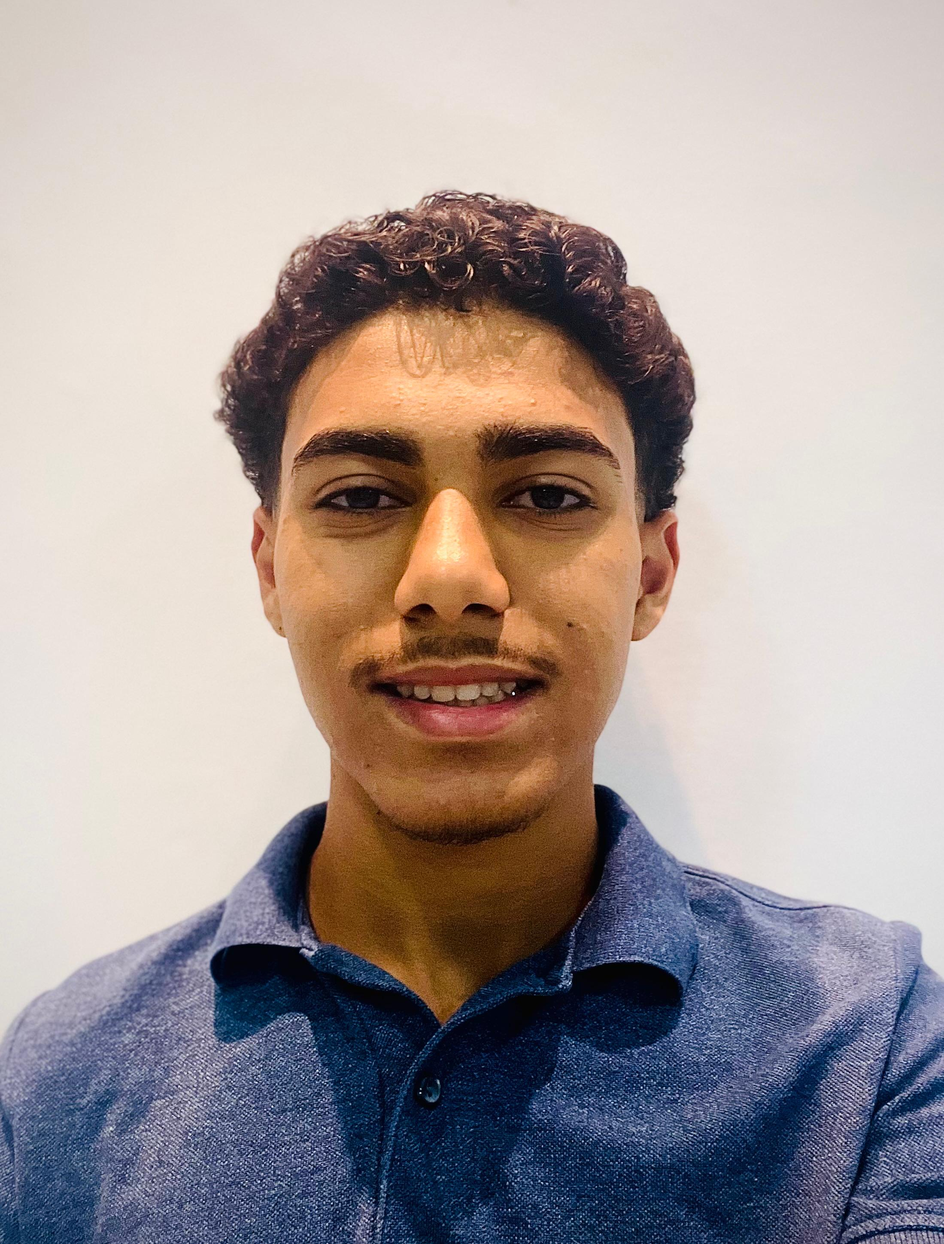
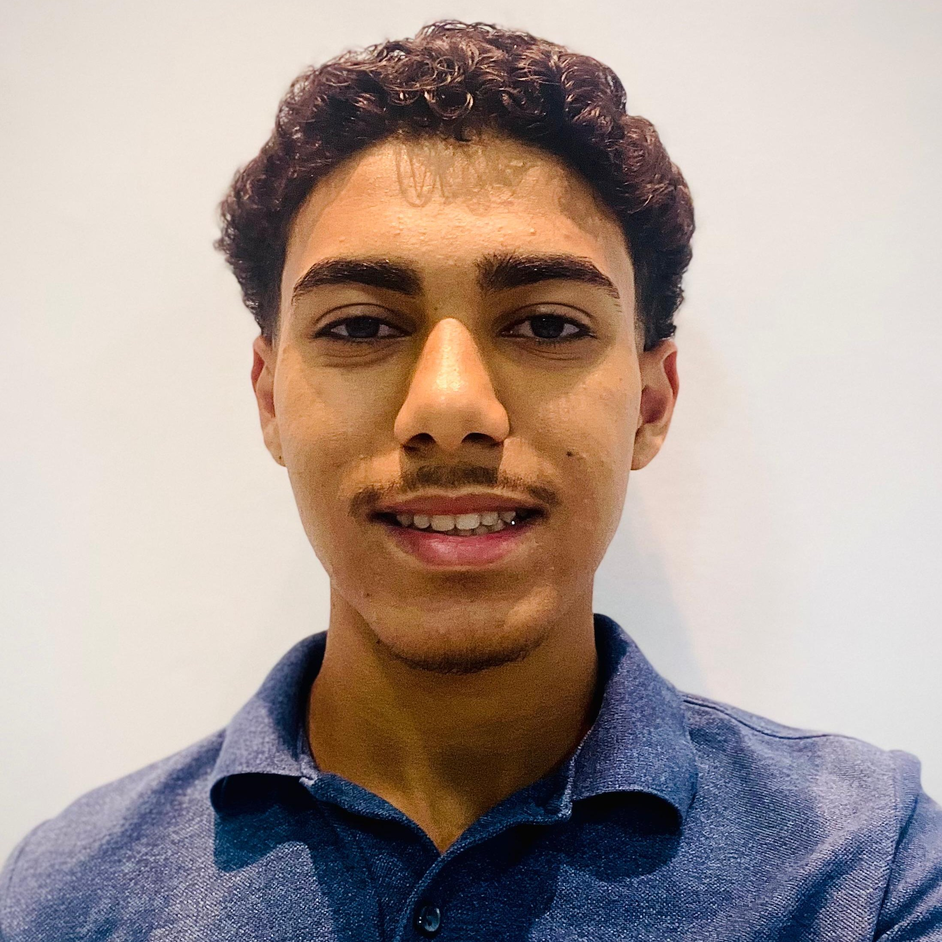
Mudança na foto de Perfil

diff --git a/Style.css b/Style.css
@@ -34,7 +34,7 @@ header h1 {
 
 header img {
     border-radius: 50%;
-    margin-top: 10px;
+    margin-top: 20px;
     box-shadow: 0 0 10px rgba(0, 0, 0, 0.1);
 }
 
